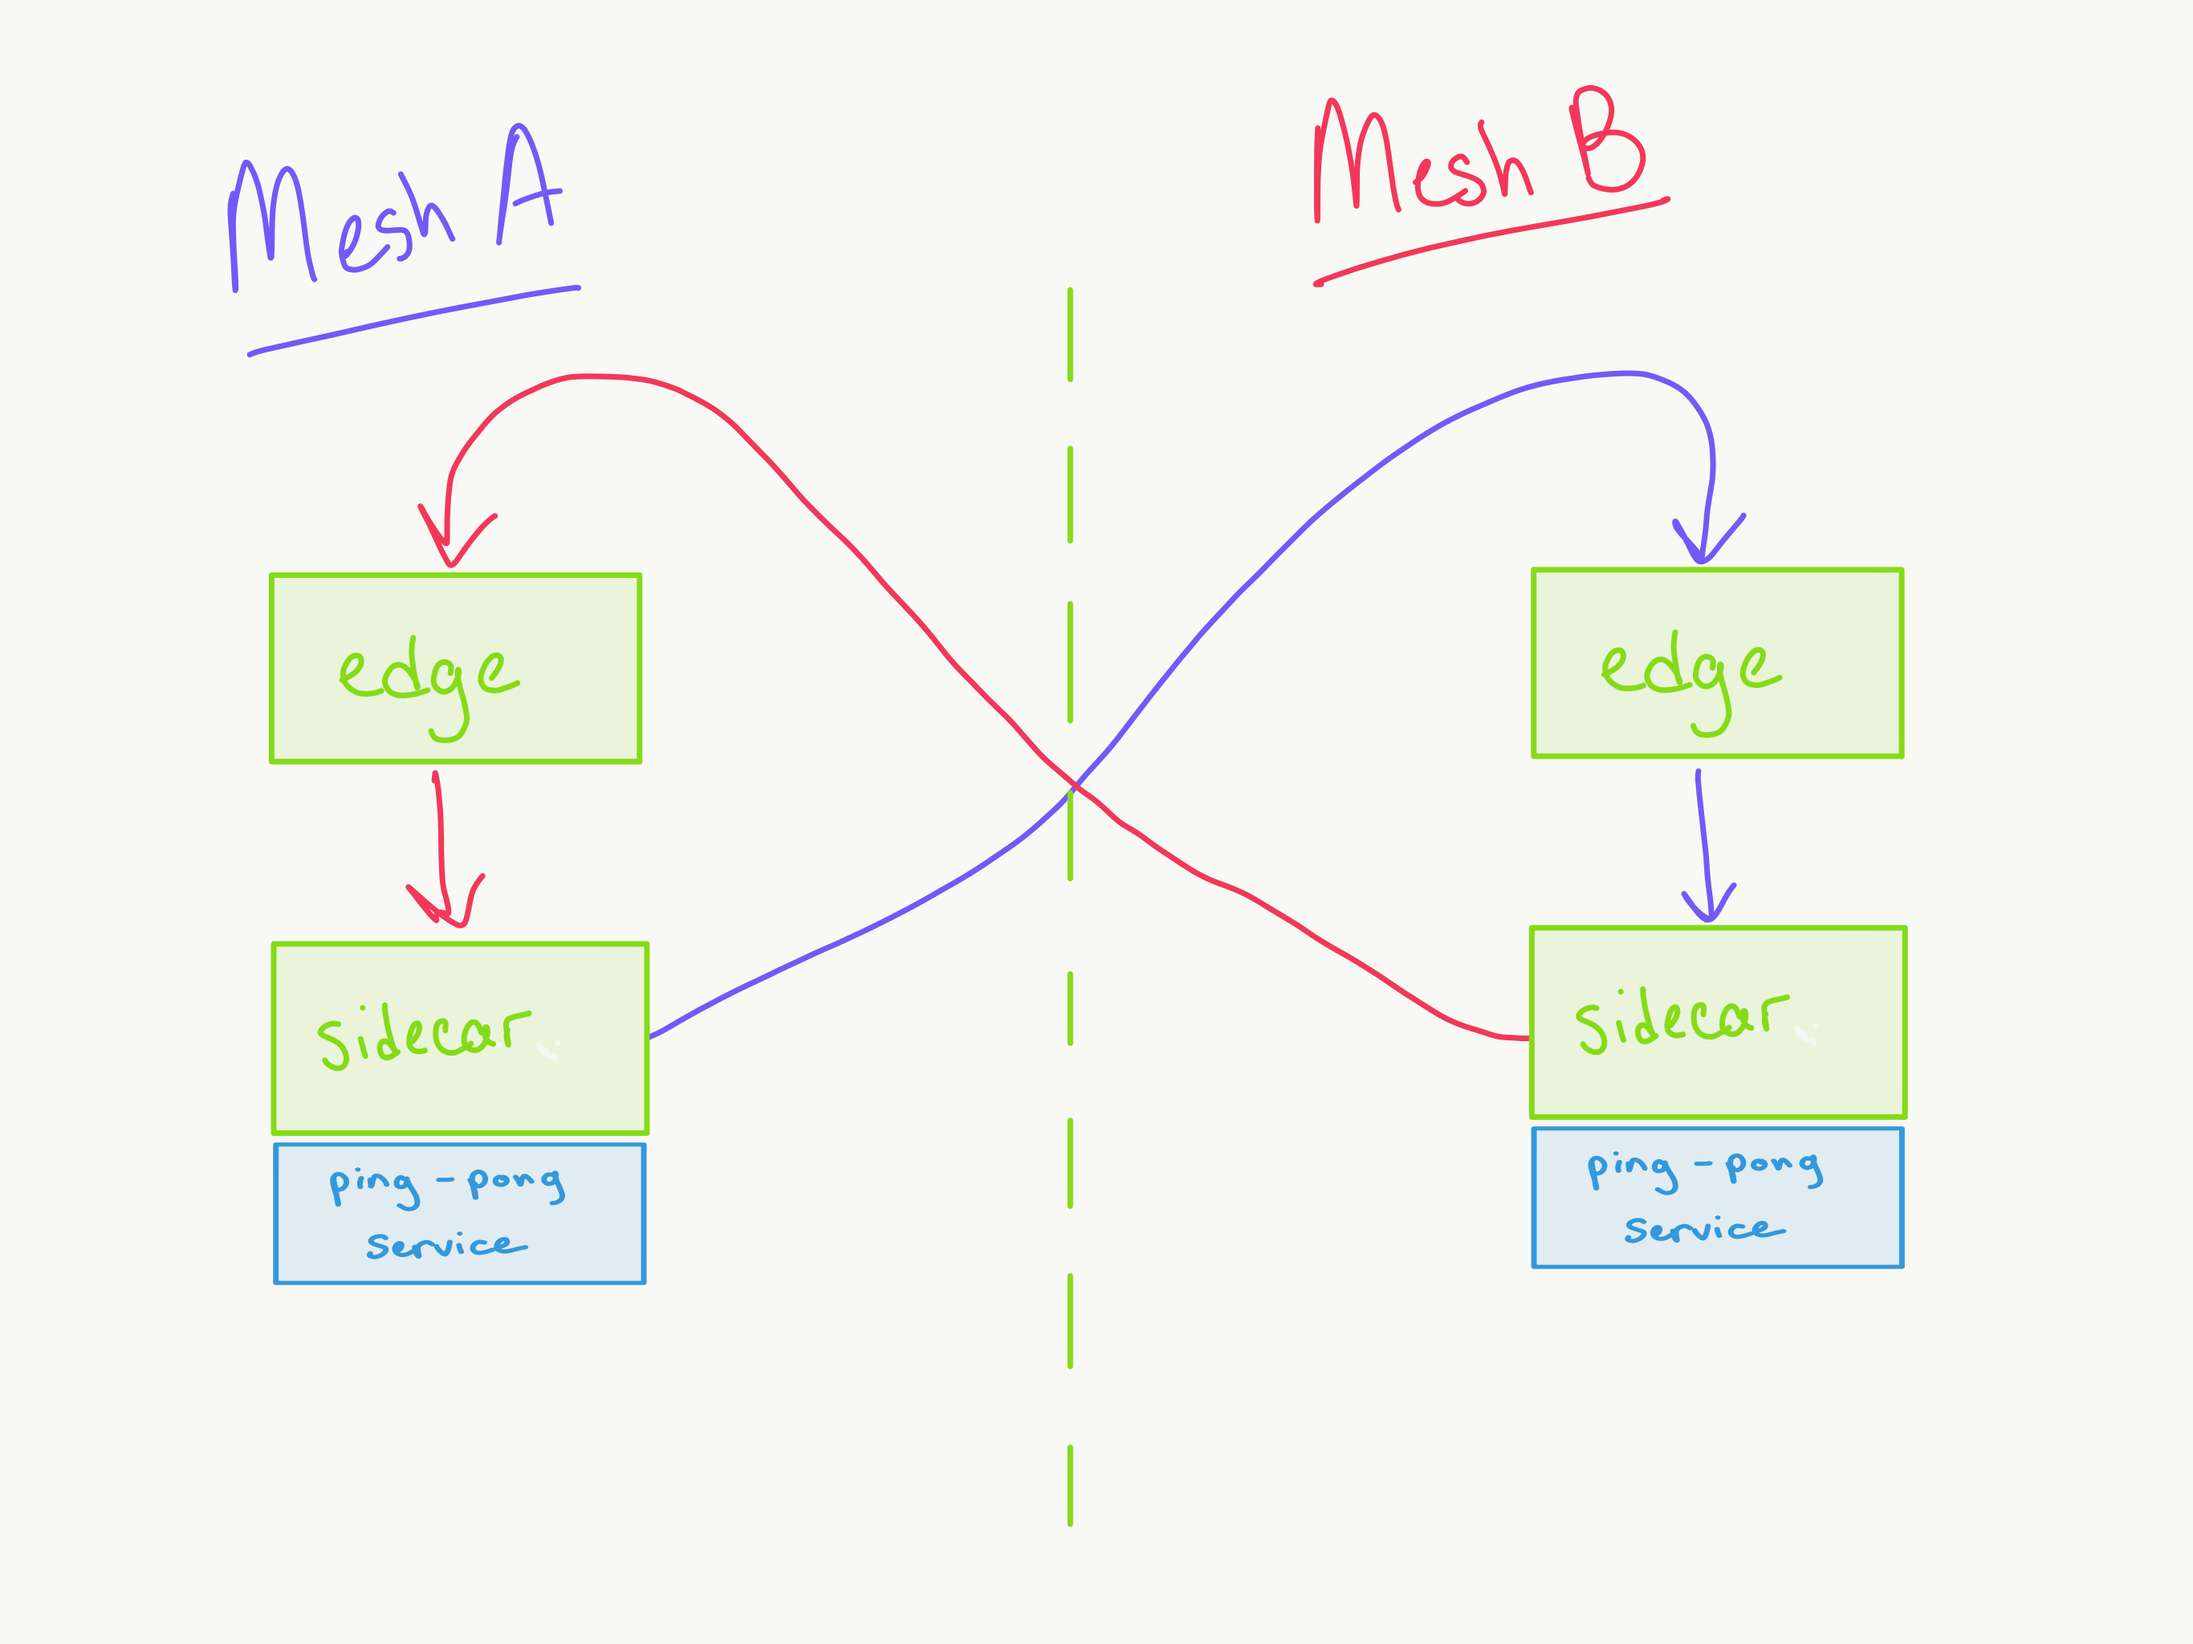
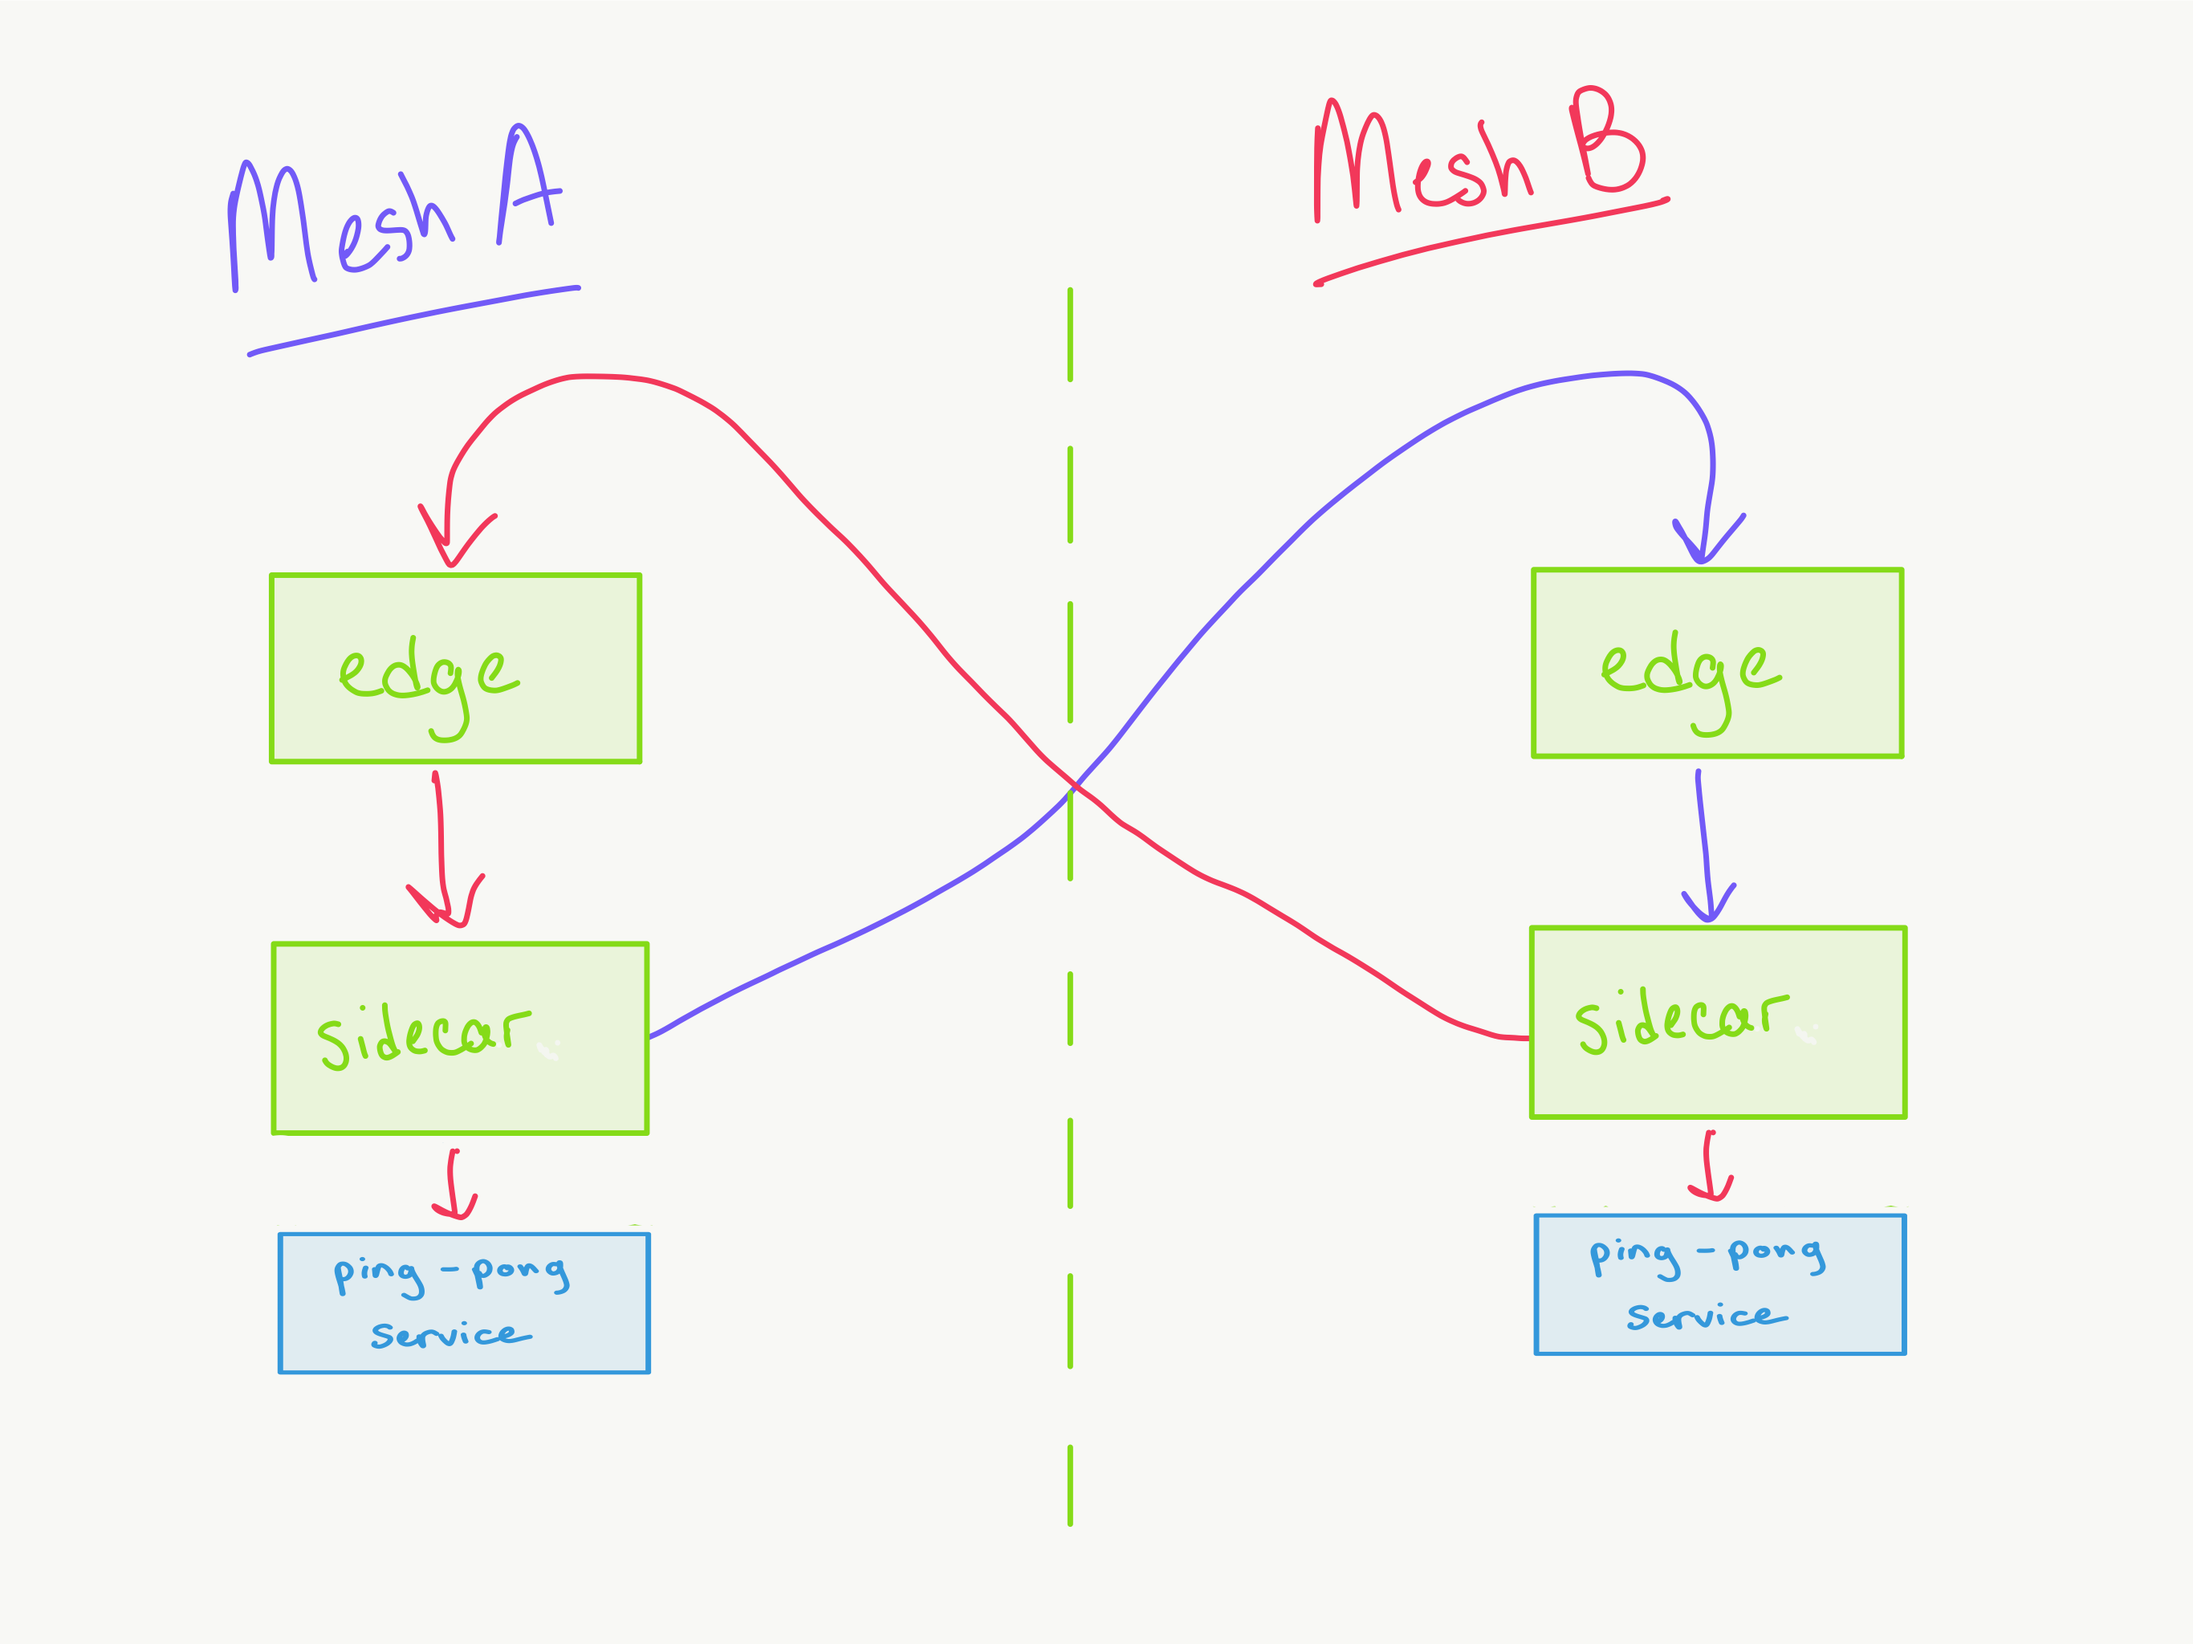
update diagrams

Changed region(s): [[0.1245, 0.6875, 0.3111, 0.8438], [0.6845, 0.6875, 0.8712, 0.8125], [0.84, 0.8125, 0.8712, 0.8438]]

diff --git a/multimesh/workshop.md b/multimesh/workshop.md
@@ -234,7 +234,7 @@ When the ball goes out of bounds, the game is over! Hit `ctrl+c` to exit the log
 
 The second configuration uses an _egress_ edge proxy, which acts as a bridge between the meshes. Instead of pointing each service to the ingress edge of the other mesh, only the egress proxy knows about the second mesh and all services route to it instead. This can be beneficial for security and for monitoring cross-mesh traffic. In this scenario, sidecars that want to talk to the other mesh don't need to know how to authenticate with it, they just need to be able to talk to the egress proxy.
 
-![](./assets/svc-to-meshb-egress-2.png)
+![](./assets/svc-to-meshb-egress.png)
 
 There is already an `egress-edge` proxy deployed into your environment, we'll just need to tweak the configuration to make this work.
 
